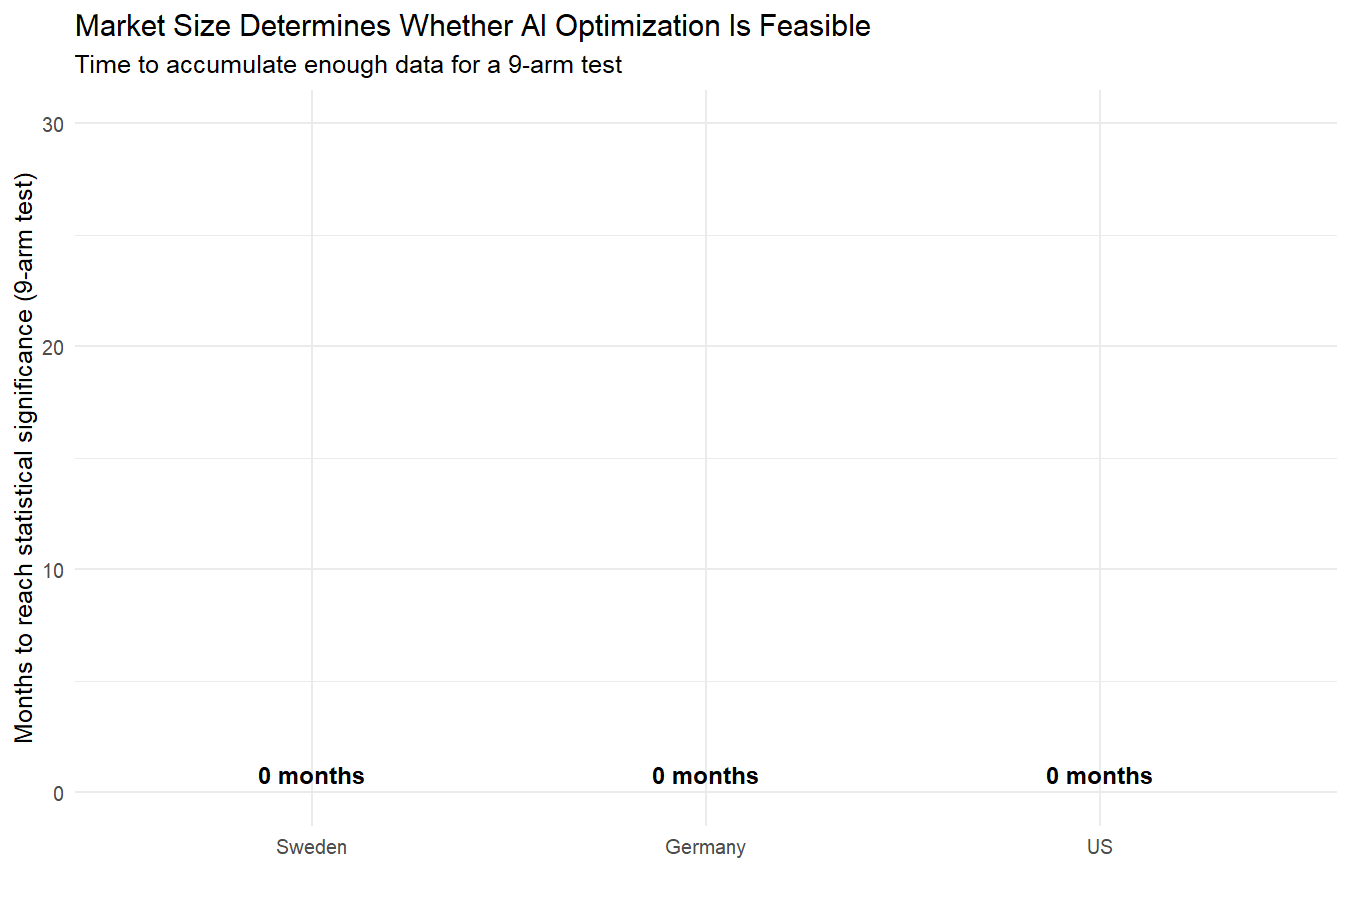
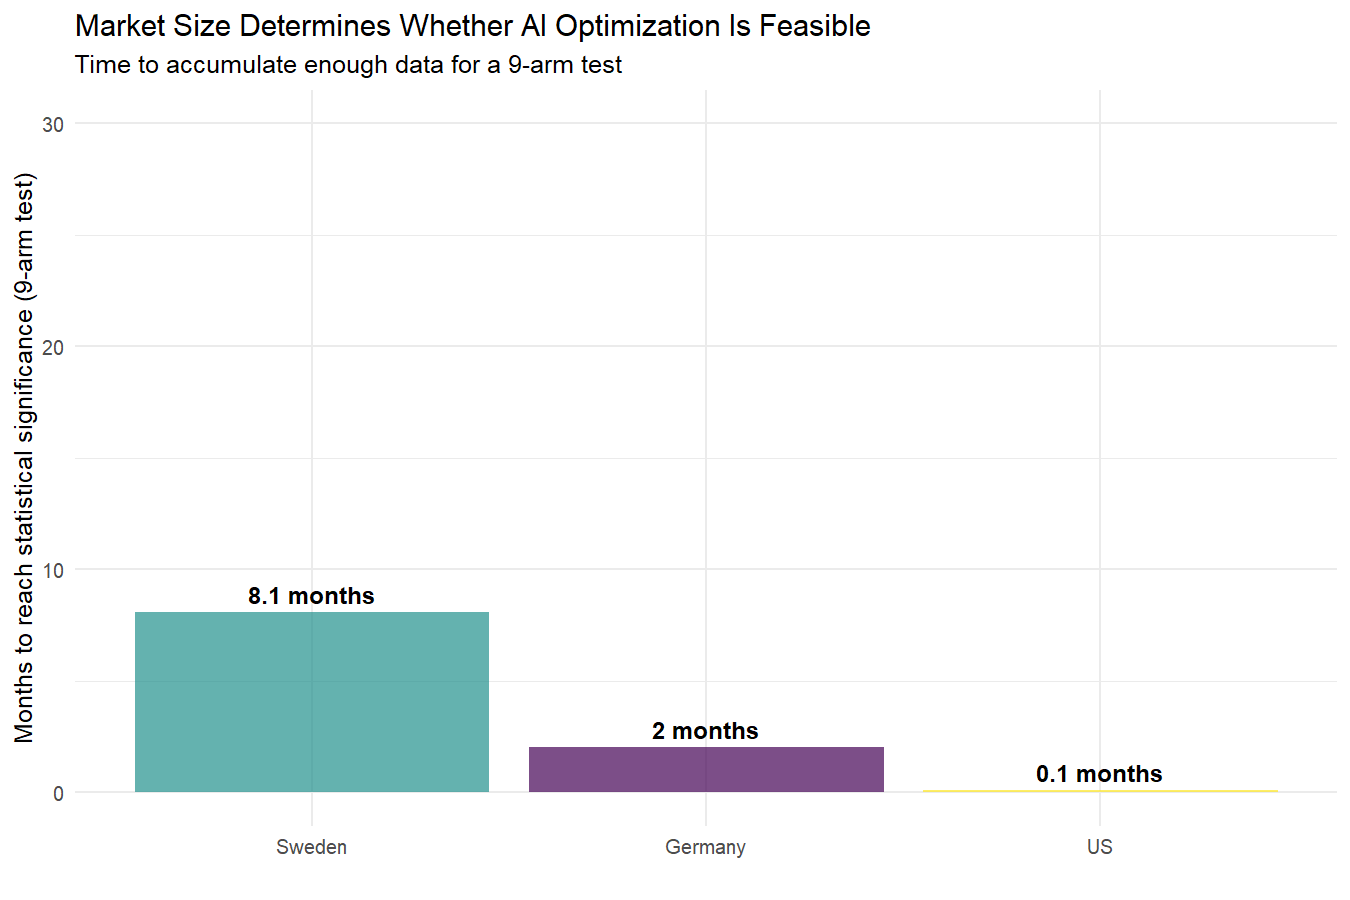
update-

Changed region(s): [[0.0933, 0.6533, 0.6533, 0.9022], [0.7467, 0.84, 0.8711, 0.8711]]

diff --git a/_posts/2026-02-22-limits-of-ai-optimization.md b/_posts/2026-02-22-limits-of-ai-optimization.md
@@ -26,7 +26,7 @@ Basically, if feedback to AI systems (e.g. Ad optimisation systems) is too spars
 
 ## Long Version
 
-AI-driven ad optimization and personalization systems are impressive. TikTok Google, Meta; they can show you the right ad to the right person at the right time, learning and improving continuously. But there's a dirty secret: **these systems are built for the US/Chinese market.**
+AI-driven ad optimization and personalization systems are impressive. TikTok, Google, Meta; they can show you the right ad to the right person at the right time, learning and improving continuously. But there's a dirty secret: **these systems are built for the US/Chinese market.**
 
 When you try to use them in smaller markets like Germany (80 million people) or Sweden (10 million), the math breaks down. The feedback loop that enables AI learning becomes too sparse for the algorithms to work.
 
@@ -154,15 +154,14 @@ The key insight: sample size grows **super-linearly** with the number of arms. 9
 
 Now let's compare market sizes:
 
-| Market | Population | Daily ad impressions* | Time to 7M impressions | Time to 34M impressions |
-|---------|------------|----------------------|------------------------|---------------------------|
-| US | 330M | ~500M | ~2 weeks | ~2 months |
-| Germany | 80M | ~120M | ~2 months | ~9 months |
-| Sweden | 10M | ~15M | ~15 months | ~2+ years |
+| Market | Population | Daily ad impressions | Time to 34M impressions 
+|---------|------------|----------------------|------------------------|
+| US | 330M | ~5M | ~7 weeks | 
+| Germany | 80M | ~0.5M | ~68 weeks | 
+| Sweden | 10M | ~0.1M | ~85 weeks | 
 
-*Assuming per capita daily ad exposure similar across markets
 
-In the US, a 9-arm test converges in a couple of months. In Sweden, the same test takes more than **two years** — by which time the market has changed, the creatives are stale, and the test results are meaningless.
+In the US, a 9-arm test converges in a couple of weeks. In Sweden, the same test takes almost  **two years**;  by which time the market has changed, the creatives are stale, and the test results are meaningless.
 
 ## The per capita problem
 
@@ -177,7 +176,7 @@ The graph looks like this:
 market_sizes <- data.frame(
   market = c("US", "Germany", "Sweden"),
   population = c(330, 80, 10),  # Millions
-  daily_impressions = c(500, 120, 15)  # Millions
+  daily_impressions = c(5, 0.2, 0.05) # Millions
 )
 
 # Required impressions for 9-arm test
